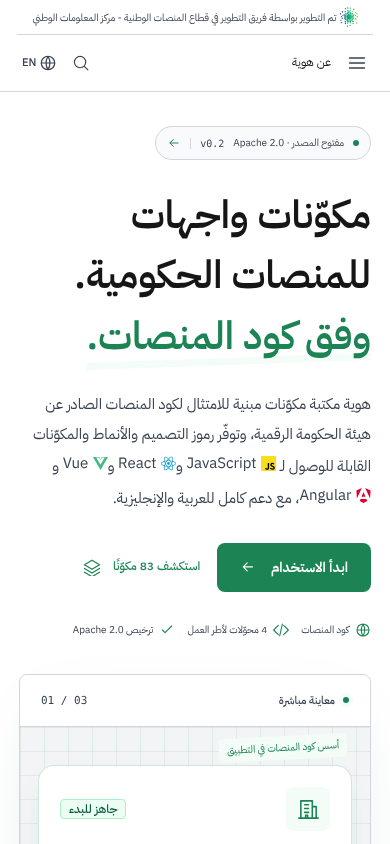
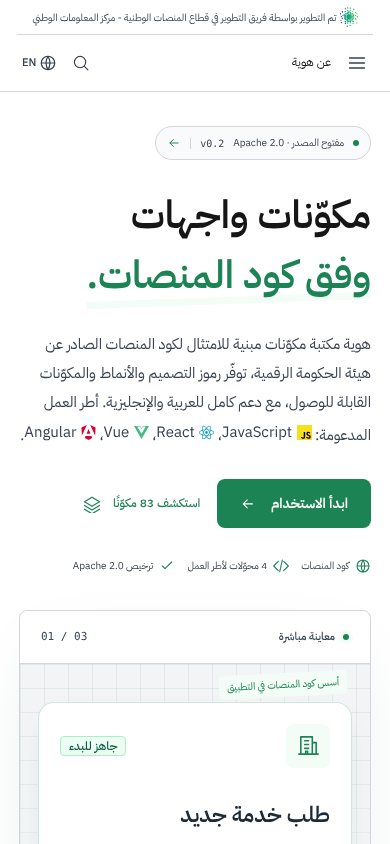
Lead installation with npm and remove government-platform overstatement
- The homepage installation section now opens on an npm tab with numbered
  install and import steps for the selected framework; cloning the source is
  the second tab. The chosen tab survives a framework switch, package names
  stay left-to-right in Arabic, and code wraps only at spaces.
- The Arabic hero drops "للمنصات الحكومية", the lead lists frameworks with
  commas instead of و, and the READMEs, brand pages and guide metadata no
  longer describe Hawiyah as limited to government platforms.
- Record the rename's verification results.

diff --git a/apps/playground/src/guide-home.ts b/apps/playground/src/guide-home.ts
@@ -6,12 +6,15 @@ import { hawiyahMinor, hawiyahVersion } from './release';
 type Framework = 'vanilla' | 'react' | 'vue' | 'angular';
 const frameworks: Framework[] = ['vanilla', 'react', 'vue', 'angular'];
 const labels = { vanilla: 'JavaScript', react: 'React', vue: 'Vue', angular: 'Angular' };
+/** Installation tab kept across re-renders when the framework changes. */
+let installMethod: 'npm' | 'source' = 'npm';
 export function renderHome(locale: Locale, selected: string, sample: (id: ComponentId, prefix: string) => string): string {
   const t = (en: string, ar: string) => locale === 'ar' ? ar : en;
   const framework = frameworks.includes(selected as Framework) ? selected as Framework : 'vanilla';
   const command = framework === 'vanilla' ? 'pnpm dev' : `pnpm --filter @hawiyah/example-${framework} dev`;
   const start = `git clone https://github.com/MohamedEmbarak/hawiyah.git\ncd hawiyah\ncorepack enable\npnpm install --frozen-lockfile\npnpm build:packages\n${command}`;
   const install = `npm install @hawiyah/styles @hawiyah/${framework}`;
+  const terminal = (code: string, label: string) => `<div class="home-terminal" dir="ltr"><pre><code>${e(code)}</code></pre><button type="button" data-copy="${e(code)}" aria-label="${label}">${icon('copy',17)}</button></div>`;
   const usage: Record<Framework, string> = {
     vanilla: "import '@hawiyah/styles/styles.css';\nimport { enhance } from '@hawiyah/vanilla';\n\n// Enhance only application-owned HTML with data-hw hooks.\nconst dispose = enhance(document);\n// Call dispose() before removing the enhanced tree.",
     react: "import '@hawiyah/styles/styles.css';\nimport { Button } from '@hawiyah/react';\n\nexport function Example() {\n  return <Button>Continue</Button>;\n}",
@@ -26,8 +29,8 @@ export function renderHome(locale: Locale, selected: string, sample: (id: Compon
   return `<div class="home-experience">
   <section class="home-hero" aria-labelledby="home-title">
     <div class="home-intro"><a class="home-release" href="#docs/getting-started"><span></span>${t('Open source · Apache 2.0', 'مفتوح المصدر · Apache 2.0')}<b dir="ltr">v${hawiyahMinor}</b>${icon('arrow',14)}</a>
-      <h1 id="home-title">${t('Built to the<br><em>DGA Platforms Code.</em>', 'مكوّنات واجهات للمنصات الحكومية.<br><em>وفق كود المنصات.</em>')}</h1>
-      <p class="home-lead">${t('Hawiyah is a component library built to comply with the Digital Government Authority Platforms Code. It provides design tokens, styles and accessible components for JavaScript, React, Vue and Angular, with full Arabic and English support.', 'هوية مكتبة مكوّنات مبنية للامتثال لكود المنصات الصادر عن هيئة الحكومة الرقمية، وتوفّر رموز التصميم والأنماط والمكوّنات القابلة للوصول لـ JavaScript وReact وVue وAngular، مع دعم كامل للعربية والإنجليزية.')}</p>
+      <h1 id="home-title">${t('Built to the<br><em>DGA Platforms Code.</em>', 'مكوّنات واجهات<br><em>وفق كود المنصات.</em>')}</h1>
+      <p class="home-lead">${t('Hawiyah is a component library built to comply with the Digital Government Authority Platforms Code. It provides design tokens, styles and accessible components for JavaScript, React, Vue and Angular, with full Arabic and English support.', 'هوية مكتبة مكوّنات مبنية للامتثال لكود المنصات الصادر عن هيئة الحكومة الرقمية، توفّر رموز التصميم والأنماط والمكوّنات القابلة للوصول، مع دعم كامل للعربية والإنجليزية. أطر العمل المدعومة: JavaScript، React، Vue، Angular.')}</p>
       <div class="home-actions"><a class="hw-button" href="#docs/getting-started">${t('Get started', 'ابدأ الاستخدام')}${icon('arrow',18)}</a><a class="home-secondary" href="#components">${t(`Explore ${catalog.length} components`, `استكشف ${catalog.length} مكوّنًا`)}${icon('layers',18)}</a></div>
       <div class="home-proof"><span>${icon('globe',16)}${t('DGA Platforms Code', 'كود المنصات')}</span><span>${icon('code',16)}${t('4 framework adapters', '4 محوّلات لأطر العمل')}</span><span>${icon('check',16)}${t('Apache 2.0', 'ترخيص Apache 2.0')}</span></div>
     </div>
@@ -44,7 +47,7 @@ export function renderHome(locale: Locale, selected: string, sample: (id: Compon
       <div class="home-studio-foot"><span>${icon('spark',14)}${t('Shared DGA colors, spacing and radii.', 'ألوان ومسافات وزوايا كود المنصات المشتركة.')}</span><a href="#foundations">${t('Explore foundations', 'استكشف الأسس')} ${icon('arrow',14)}</a></div>
     </div>
   </section>
-  <section class="home-quickstart" aria-labelledby="quickstart-title"><div><span class="home-section-label">${t('INSTALLATION', 'التثبيت')}</span><h2 id="quickstart-title">${t('Run Hawiyah from source', 'شغّل هوية من المصدر')}</h2><p>${t('Choose an adapter, then follow the complete checkout and setup commands.', 'اختر المحوّل، ثم اتبع أوامر تنزيل المصدر والإعداد كاملة.')}</p></div><div class="home-install"><div class="home-frameworks" role="group" aria-label="${t('Choose your framework', 'اختر إطار العمل')}">${frameworks.map(f=>`<button type="button" id="home-framework-${f}" data-framework="${f}" aria-pressed="${framework===f}" class="${framework===f?'selected':''}"><span class="framework-name">${frameworkIcon(f)}${labels[f]}</span></button>`).join('')}</div><p class="home-setup-note">${t('Run the source checkout with Node 24 and the pinned pnpm version. To add Hawiyah to an existing application, install the published npm packages instead.', 'شغّل نسخة المصدر باستخدام Node 24 وإصدار pnpm المثبّت في المشروع. لإضافة هوية إلى تطبيق قائم، ثبّت الحزم المنشورة على npm بدلًا من ذلك.')}</p><div class="home-terminal" dir="ltr"><pre><code>${e(start)}</code></pre><button type="button" data-copy="${e(start)}" aria-label="${t('Copy complete setup commands', 'انسخ أوامر الإعداد كاملة')}">${icon('copy',17)}</button></div><div class="home-install-foot"><span>${t(`From source · Node 24 · npm ${hawiyahVersion}`, `من المصدر · Node 24 · npm ${hawiyahVersion}`)}</span><a href="#docs/${framework}">${t('Setup guide', 'دليل الإعداد')} ${icon('arrow',14)}</a></div><details class="home-consumer-setup"><summary>${t('Use packages in an existing application', 'استخدم الحزم في تطبيق قائم')}</summary><p>${t('Install the published packages in your existing application. The adapter brings in @hawiyah/core, and @hawiyah/styles brings in @hawiyah/tokens. Version 0.x releases may change APIs between minor versions.', 'ثبّت الحزم المنشورة داخل تطبيقك القائم. يجلب المحوّل حزمة @hawiyah/core، وتجلب @hawiyah/styles حزمة @hawiyah/tokens. قد تتغير الواجهات البرمجية بين الإصدارات الفرعية ما دام الإصدار 0.x.')}</p><div class="home-terminal" dir="ltr"><pre><code>${e(install)}</code></pre><button type="button" data-copy="${e(install)}" aria-label="${t('Copy package installation command', 'انسخ أمر تثبيت الحزم')}">${icon('copy',17)}</button></div><p>${t('Load @hawiyah/styles/styles.css once in the application entry point or global styles. Use the selected adapter setup guide for component imports, framework prerequisites and lifecycle cleanup.', 'حمّل @hawiyah/styles/styles.css مرة واحدة في نقطة دخول التطبيق أو أنماطه العامة. اتبع دليل إعداد المحوّل المحدد لاستيراد المكوّنات ومتطلبات إطار العمل وتنظيف دورة الحياة.')}</p><div class="home-terminal" dir="ltr"><pre><code>${e(usage[framework])}</code></pre><button type="button" data-copy="${e(usage[framework])}" aria-label="${t('Copy package usage example', 'انسخ مثال استخدام الحزمة')}">${icon('copy',17)}</button></div><a href="#docs/${framework}">${t('Open', 'افتح دليل')} ${labels[framework]} ${t('setup and imports', 'الإعداد والاستيراد')}${icon('arrow',14)}</a></details></div></section>
+  <section class="home-quickstart" aria-labelledby="quickstart-title"><div class="home-quickstart-intro"><span class="home-section-label">${t('INSTALLATION', 'التثبيت')}</span><h2 id="quickstart-title">${t('Install Hawiyah', 'ثبّت هوية')}</h2><p>${t('Choose a framework, then install the published packages or clone the source repository.', 'اختر إطار العمل، ثم ثبّت الحزم المنشورة أو انسخ مستودع المصدر.')}</p><dl class="home-quickstart-facts"><div><dt>${t('Version', 'الإصدار')}</dt><dd dir="ltr">${hawiyahVersion}</dd></div><div><dt>${t('License', 'الترخيص')}</dt><dd dir="ltr">Apache 2.0</dd></div><div><dt>${t('Standard', 'المعيار')}</dt><dd>${t('DGA Platforms Code', 'كود المنصات')}</dd></div></dl></div><div class="home-install"><div class="home-frameworks" role="group" aria-label="${t('Choose your framework', 'اختر إطار العمل')}">${frameworks.map(f=>`<button type="button" id="home-framework-${f}" data-framework="${f}" aria-pressed="${framework===f}" class="${framework===f?'selected':''}"><span class="framework-name">${frameworkIcon(f)}${labels[f]}</span></button>`).join('')}</div><div class="hw-tabs home-install-tabs" data-hw="tabs"><div class="hw-tab-list" role="tablist" aria-label="${t('Installation method', 'طريقة التثبيت')}"><button class="hw-tab" role="tab" id="home-install-tab-npm" data-method="npm" aria-controls="home-install-npm" aria-selected="${installMethod==='npm'}">${t('Install from npm', 'التثبيت من npm')}<span class="home-install-recommended">${t('Recommended', 'موصى به')}</span></button><button class="hw-tab" role="tab" id="home-install-tab-source" data-method="source" aria-controls="home-install-source" aria-selected="${installMethod==='source'}">${t('Clone the source', 'نسخ المصدر')}</button></div><section class="hw-tab-panel home-install-panel" role="tabpanel" id="home-install-npm" aria-labelledby="home-install-tab-npm"${installMethod==='npm'?'':' hidden'}><ol class="home-install-steps"><li><span class="home-install-step">${t('Install the styles and the', 'ثبّت حزمة الأنماط ومحوّل')} ${labels[framework]} ${t('adapter', '')}</span>${terminal(install, t('Copy package installation command', 'انسخ أمر تثبيت الحزم'))}</li><li><span class="home-install-step">${t('Import the stylesheet once, then use the components', 'استورد ملف الأنماط مرة واحدة، ثم استخدم المكوّنات')}</span>${terminal(usage[framework], t('Copy package usage example', 'انسخ مثال استخدام الحزمة'))}</li></ol><p class="home-install-note">${t('The adapter installs <code dir="ltr">@hawiyah/core</code>, and <code dir="ltr">@hawiyah/styles</code> installs <code dir="ltr">@hawiyah/tokens</code>. Releases below 1.0 may change APIs between minor versions.', 'يثبّت المحوّل حزمة <code dir="ltr">@hawiyah/core</code>، وتثبّت <code dir="ltr">@hawiyah/styles</code> حزمة <code dir="ltr">@hawiyah/tokens</code>. قد تتغير الواجهات البرمجية بين الإصدارات الفرعية قبل الإصدار <bdi dir="ltr">1.0</bdi>.')}</p><a class="home-install-link" href="#docs/${framework}">${t(`Open the ${labels[framework]} setup guide`, `افتح دليل إعداد ${labels[framework]}`)}${icon('arrow',14)}</a></section><section class="hw-tab-panel home-install-panel" role="tabpanel" id="home-install-source" aria-labelledby="home-install-tab-source"${installMethod==='source'?'':' hidden'}><p class="home-install-note">${t('Use Node.js 24 and the pnpm version pinned in the repository. The last command starts the selected example.', 'استخدم Node.js 24 وإصدار pnpm المثبّت في المستودع. يشغّل الأمر الأخير المثال المحدد.')}</p>${terminal(start, t('Copy complete setup commands', 'انسخ أوامر الإعداد كاملة'))}<a class="home-install-link" href="https://github.com/MohamedEmbarak/hawiyah" target="_blank" rel="noopener">${t('View the repository on GitHub', 'اعرض المستودع على GitHub')}${icon('arrow',14)}</a></section></div></div></section>
   <section class="home-collection" aria-labelledby="collection-title"><div class="home-section-head"><div><span class="home-section-label">${t('COMPONENT CATALOG', 'فهرس المكوّنات')}</span><h2 id="collection-title">${t('Documented components.<br>Tested behavior.', 'مكوّنات موثقة.<br>وسلوك مختبَر.')}</h2></div><a class="home-secondary" href="#components">${t('Full catalog', 'الفهرس الكامل')}${icon('arrow',18)}</a></div>
     <div class="home-featured">${featured.map(([id,en,ar,n])=>`<article class="home-feature-card"><div class="home-feature-caption"><span dir="ltr">${n}</span><span>${t(en,ar)}</span>${icon('spark',16)}</div><div class="home-feature-demo">${sample(id,'home-feature-'+id)}</div><a href="#component/${id}">${t(id === 'date-picker' ? 'Explore Date picker' : id === 'combobox' ? 'Explore Combobox' : 'Explore Tabs',id === 'date-picker' ? 'اكتشف منتقي التاريخ' : id === 'combobox' ? 'اكتشف البحث والاختيار' : 'اكتشف التبويبات')}${icon('arrow',17)}</a></article>`).join('')}</div>
   </section>
@@ -64,11 +67,13 @@ export function bindHome(root: HTMLElement, locale: Locale): () => void {
     stage.querySelector('progress')!.value=progress;
     stage.querySelector('[data-home-progress]')!.textContent=new Intl.NumberFormat(locale==='ar'?'ar-SA':'en',{numberingSystem:'latn'}).format(progress)+(locale==='ar'?' من 3':' / 3');
   };
+  const rememberMethod=()=>{const tab=root.querySelector<HTMLElement>('.home-install-tabs [role="tab"][aria-selected="true"]');if(tab?.dataset.method==='npm'||tab?.dataset.method==='source')installMethod=tab.dataset.method;};
   const onClick=(event:Event)=>{
+    if((event.target as Element).closest('.home-install-tabs'))rememberMethod();
     if(!(event.target as Element).closest('[data-home-continue]'))return;
     progress=progress===3?1:progress+1;setProgress();
     stage.querySelector('[data-home-status]')!.textContent=progress===3?t('Preview complete. Start again.','اكتملت المعاينة. ابدأ من جديد.'):t(`Preview step ${progress} of 3.`,`خطوة المعاينة ${progress} من 3.`);
   };
-  root.addEventListener('click',onClick);setProgress();
-  return()=>{root.removeEventListener('click',onClick);};
+  root.addEventListener('click',onClick);root.addEventListener('keyup',rememberMethod);setProgress();
+  return()=>{root.removeEventListener('click',onClick);root.removeEventListener('keyup',rememberMethod);};
 }

diff --git a/apps/playground/src/guide-home.css b/apps/playground/src/guide-home.css
@@ -14,3 +14,34 @@
 
 /* Source setup stays readable and copyable at every viewport size. */
 .home-terminal{align-items:flex-start}.home-terminal pre{margin:0;min-inline-size:0;white-space:pre-wrap;overflow-wrap:anywhere}.home-consumer-setup{margin-block-start:18px;font-size:13px}.home-consumer-setup summary{cursor:pointer;font-weight:500;color:var(--hw-color-text)}.home-consumer-setup>a{display:inline-flex;align-items:center;gap:6px;color:var(--hw-color-primary-text)}
+/* Installation: npm first, source checkout second. */
+.home-quickstart{grid-template-columns:minmax(0,.8fr) minmax(0,1.4fr);align-items:start;gap:clamp(24px,4vw,56px);padding:clamp(22px,3vw,40px);background:var(--hw-color-surface)}
+.home-quickstart-intro h2{font-size:clamp(24px,2.4vw,32px);margin-block:10px 8px}
+.home-quickstart-intro p{font-size:14px;max-inline-size:34ch}
+.home-quickstart-facts{display:grid;gap:0;margin:22px 0 0;border-block-start:1px solid var(--hw-color-border)}
+.home-quickstart-facts div{display:flex;justify-content:space-between;gap:16px;padding-block:10px;border-block-end:1px solid var(--hw-color-border);font-size:13px}
+.home-quickstart-facts dt{color:var(--hw-color-text-muted)}
+.home-quickstart-facts dd{margin:0;font-weight:500;color:var(--hw-color-text)}
+.home-install{display:grid;gap:16px}
+.home-install .home-frameworks{margin:0}
+.home-install-tabs{border:1px solid var(--hw-color-border);border-radius:var(--hw-radius-lg);background:var(--hw-color-canvas);overflow:hidden}
+.home-install-tabs .hw-tab-list{padding-inline:12px;background:var(--hw-color-surface)}
+.home-install-tabs .hw-tab{gap:8px;font-size:14px}
+.home-install-recommended{display:inline-flex;align-items:center;padding:1px 8px;border-radius:999px;background:var(--hw-color-primary-subtle);color:var(--hw-color-primary-text);font-size:11px;font-weight:500;line-height:1.7}
+.home-install-panel{display:grid;gap:14px;padding:20px}
+.home-install-steps{display:grid;gap:16px;margin:0;padding:0;list-style:none;counter-reset:install}
+.home-install-steps li{display:grid;gap:8px;counter-increment:install}
+.home-install-step{display:flex;align-items:center;gap:10px;font-size:14px;font-weight:500;color:var(--hw-color-text)}
+.home-install-step:before{content:counter(install);display:grid;place-items:center;flex:none;inline-size:24px;block-size:24px;border-radius:50%;background:var(--hw-color-primary);color:var(--hw-color-on-primary);font-size:12px;font-weight:600}
+.home-install-panel .home-terminal{align-items:flex-start;padding:14px 16px}
+.home-install-panel .home-terminal pre{margin:0;min-inline-size:0;white-space:pre-wrap;overflow-wrap:anywhere}
+.home-install-panel .home-terminal code{font-size:12.5px;line-height:1.8}
+.home-install-note{margin:0;font-size:13px;line-height:1.8;color:var(--hw-color-text-muted)}
+.home-install-link{display:inline-flex;align-items:center;gap:6px;justify-self:start;font-size:14px;font-weight:500;text-decoration:none;color:var(--hw-color-primary-text)}
+.home-install-link:hover{text-decoration:underline;text-underline-offset:.2em}
+@media(max-width:1024px){.home-quickstart{grid-template-columns:minmax(0,1fr)}.home-quickstart-intro p{max-inline-size:none}}
+@media(max-width:420px){.home-install-panel{padding:14px}.home-install-tabs .hw-tab{font-size:13px;padding-inline:8px}.home-install-recommended{display:none}}
+.home-install-note code{font-size:12px;padding:1px 5px;border-radius:4px;background:var(--hw-color-surface-muted);color:var(--hw-color-text);unicode-bidi:isolate}
+.home-install-panel .home-terminal pre{flex:1;white-space:pre;overflow-wrap:normal;overflow-x:auto;scrollbar-width:thin}
+@media(max-width:420px){.home-install-panel .home-terminal code{font-size:12px}}
+.home-install-panel .home-terminal pre{white-space:pre-wrap;overflow-wrap:normal;word-break:normal}

diff --git a/tests/browser/home-onboarding.spec.ts b/tests/browser/home-onboarding.spec.ts
@@ -12,21 +12,32 @@ for (const locale of ['ar', 'en']) test(`homepage source onboarding and JavaScri
   expect(await page.locator('[data-home-stage]').evaluate(node => (node as HTMLElement).style.getPropertyValue('--hw-radius-md'))).toBe('');
   await page.locator('[data-home-continue]').click();
   await expect(page.locator('[data-home-progress]')).toContainText('2');
-  const sourceCommands = page.locator('.home-install > .home-terminal code');
-  await expect(sourceCommands).toContainText('git clone https://github.com/MohamedEmbarak/hawiyah.git');
-  await expect(sourceCommands).toContainText('corepack enable');
-  await expect(sourceCommands).toContainText('pnpm install --frozen-lockfile');
-  await expect(sourceCommands).toContainText('pnpm build:packages');
-  expect(await page.locator('.home-install > .home-terminal button').getAttribute('data-copy')).toBe(await sourceCommands.textContent());
+  const npmPanel = page.locator('#home-install-npm');
+  const sourcePanel = page.locator('#home-install-source');
+  await expect(npmPanel).toBeVisible();
+  await expect(sourcePanel).toBeHidden();
+  await expect(page.locator('#home-install-tab-npm')).toHaveAttribute('aria-selected', 'true');
   await expect(page.locator('#home-framework-vanilla')).toHaveText('JavaScript');
   await expect(page.locator('#home-framework-vanilla [data-framework-icon="javascript"]')).toHaveCount(1);
   for (const framework of ['react', 'vue', 'angular', 'vanilla']) {
     await page.locator(`#home-framework-${framework}`).click();
-    await expect(sourceCommands).toContainText(framework === 'vanilla' ? 'pnpm dev' : `pnpm --filter @hawiyah/example-${framework} dev`);
-    await page.locator('.home-consumer-setup summary').click();
-    const install = page.locator('.home-consumer-setup code').first();
+    const install = npmPanel.locator('.home-terminal code').first();
     await expect(install).toHaveText(`npm install @hawiyah/styles @hawiyah/${framework}`);
+    expect(await npmPanel.locator('.home-terminal button').first().getAttribute('data-copy')).toBe(await install.textContent());
   }
+  await page.locator('#home-install-tab-source').click();
+  await expect(sourcePanel).toBeVisible();
+  await expect(npmPanel).toBeHidden();
+  const sourceCommands = sourcePanel.locator('.home-terminal code');
+  await expect(sourceCommands).toContainText('git clone https://github.com/MohamedEmbarak/hawiyah.git');
+  await expect(sourceCommands).toContainText('corepack enable');
+  await expect(sourceCommands).toContainText('pnpm install --frozen-lockfile');
+  await expect(sourceCommands).toContainText('pnpm build:packages');
+  await expect(sourceCommands).toContainText('pnpm dev');
+  await page.locator('#home-framework-react').click();
+  await expect(page.locator('#home-install-tab-source')).toHaveAttribute('aria-selected', 'true');
+  await expect(sourcePanel.locator('.home-terminal code')).toContainText('pnpm --filter @hawiyah/example-react dev');
+  await page.locator('#home-framework-vanilla').click();
   await page.screenshot({path: testInfo.outputPath(`homepage-${locale}.png`), fullPage: true});
   await page.setViewportSize({width: 390, height: 844});
   const quickstart = page.locator('.home-quickstart');

diff --git a/brand/index.html b/brand/index.html
@@ -21,7 +21,7 @@
         <p class="eyebrow">هوية · إرشادات العلامة</p>
         <h1 id="hero-title" lang="ar" dir="rtl">مكتبة واجهات وفق كود المنصات</h1>
         <p class="hero-en">مبنية للامتثال لكود المنصات الصادر عن هيئة الحكومة الرقمية.</p>
-        <p class="intro">توفّر هوية رموز التصميم والأنماط والمكوّنات القابلة للوصول للمنصات الرقمية الحكومية. تحدد هذه الإرشادات الشعار والألوان والخطوط وقواعد الاستخدام، وجميعها مبنية على أسس كود المنصات.</p>
+        <p class="intro">توفّر هوية رموز التصميم والأنماط والمكوّنات القابلة للوصول للمنصات الرقمية. تحدد هذه الإرشادات الشعار والألوان والخطوط وقواعد الاستخدام، وجميعها مبنية على أسس كود المنصات.</p>
         <p class="muted">تُطوَّر هوية بشكل مستقل، وليست منتجًا رسميًا لهيئة الحكومة الرقمية.</p>
         <div class="link-row"><a href="#identity">قواعد الشعار</a><a href="#compliance">أساس الامتثال</a><a href="assets/hawiyah-wordmark.svg" download>نزّل الشعار ↗</a></div>
       </div>

diff --git a/apps/playground/index.html b/apps/playground/index.html
@@ -1,5 +1,5 @@
 <!doctype html>
 <html lang="ar" dir="rtl" data-hw-theme="dga" data-hw-mode="light" data-hw-density="comfortable">
-<head><meta charset="UTF-8"><meta name="viewport" content="width=device-width,initial-scale=1"><meta name="description" content="Hawiyah — هوية. A UI component library built to comply with the DGA Platforms Code, for JavaScript, React, Vue and Angular. Live components, APIs, lifecycle guidance, themes and government service templates."><title>هوية — دليل المكوّنات والتجارب الحية</title><link rel="icon" type="image/svg+xml" href="%BASE_URL%favicon.svg"></head>
+<head><meta charset="UTF-8"><meta name="viewport" content="width=device-width,initial-scale=1"><meta name="description" content="Hawiyah — هوية. A UI component library built to comply with the DGA Platforms Code, for JavaScript, React, Vue and Angular. Live components, APIs, lifecycle guidance, themes and service templates."><title>هوية — دليل المكوّنات والتجارب الحية</title><link rel="icon" type="image/svg+xml" href="%BASE_URL%favicon.svg"></head>
 <body><div id="app"></div><script type="module" src="/src/main.ts"></script></body>
 </html>

diff --git a/brand/index-en.html b/brand/index-en.html
@@ -21,7 +21,7 @@
         <p class="eyebrow">هوية · Brand guidelines</p>
         <h1 id="hero-title" lang="ar" dir="rtl">مكتبة واجهات وفق كود المنصات</h1>
         <p class="hero-en">A UI library built to comply with the DGA Platforms Code.</p>
-        <p class="intro">Hawiyah provides design tokens, styles and accessible components for government digital platforms. These guidelines define the wordmark, colors, typography and usage rules, all based on the Platforms Code foundations.</p>
+        <p class="intro">Hawiyah provides design tokens, styles and accessible components for digital platforms. These guidelines define the wordmark, colors, typography and usage rules, all based on the Platforms Code foundations.</p>
         <p class="muted">Hawiyah is maintained independently and is not an official product of the Digital Government Authority.</p>
         <div class="link-row"><a href="#identity">Wordmark rules</a><a href="#compliance">Compliance basis</a><a href="assets/hawiyah-wordmark.svg" download>Download the wordmark ↗</a></div>
       </div>

diff --git a/README.ar.md b/README.ar.md
@@ -1,6 +1,6 @@
 # هوية — Hawiyah
 
-**مكتبة مكوّنات واجهات مستخدم مبنية للامتثال لكود المنصات الصادر عن هيئة الحكومة الرقمية.** توفّر هوية رموز التصميم والأنماط والمكوّنات القابلة للوصول لـ JavaScript وReact وVue وAngular، مع دعم كامل للعربية والإنجليزية وقوالب صفحات لرحلات الخدمات الحكومية المتكاملة.
+**مكتبة مكوّنات واجهات مستخدم مبنية للامتثال لكود المنصات الصادر عن هيئة الحكومة الرقمية.** توفّر هوية رموز التصميم والأنماط والمكوّنات القابلة للوصول لأطر العمل JavaScript، React، Vue، Angular، مع دعم كامل للعربية والإنجليزية وقوالب صفحات لرحلات خدمات متكاملة.
 
 تم التطوير بواسطة فريق التطوير في قطاع المنصات الوطنية - مركز المعلومات الوطني
 
@@ -12,7 +12,7 @@ Developed by the Development Team in the National Platforms Sector — National 
 
 معاينات: [المحرّر المباشر بالعربية](docs/previews/component-editor-ar-dark.png)، و[المعرض بالعربية على الهاتف](docs/previews/playground-ar-mobile.png)، و[استوديو التخطيط](docs/previews/layouts.png)، و[منتقي التاريخ الميلادي وأم القرى](docs/previews/date-picker.png).
 
-تطبّق هوية **كود المنصات — Platforms Code** الصادر عن **هيئة الحكومة الرقمية — DGA**، وهو **نظام التصميم الموحد — Unified Design System** في **المملكة العربية السعودية — Kingdom of Saudi Arabia (KSA)**، في الأسس والمكوّنات وأنماط الخدمات الحكومية. **يُوثَّق الامتثال متطلبًا متطلبًا، مع أدلة الاختبار والبنود المفتوحة.** تُطوَّر هوية بشكل مستقل، وليست منتجًا رسميًا للهيئة. راجع [توثيق المواءمة](docs/alignment.md) قبل وصف أي منتج بأنه متوافق. يسجل [مرجع DGA ودليل الانتقال](docs/dga-reference.md) لقطات المصدر المزوّدة بتاريخ 2026-10-29، والقيم الدلالية للوضعين الفاتح والداكن، ومعرّفات العناصر والفجوات. تاريخ التصدير ليس رقم إصدار رسميًا. فُكّ ترميز الملفات المحلية الـ23 جميعها، بما فيها الملفات الستة التي تعذّر نقلها سابقًا، ولم تُزوَّد مكتبة مستقلة لمكونات الويب. يوضح [جرد المصادر](docs/dga-source-inventory.md) و[متابعة التدقيق](docs/dga-audit-followup.md) الأدلة والفجوات المتبقية. قالب الحج خاص بتطبيق الحج وخارج نطاق هوية.
+تطبّق هوية **كود المنصات — Platforms Code** الصادر عن **هيئة الحكومة الرقمية — DGA**، وهو **نظام التصميم الموحد — Unified Design System** في **المملكة العربية السعودية — Kingdom of Saudi Arabia (KSA)**، في الأسس والمكوّنات وأنماط الخدمات. **يُوثَّق الامتثال متطلبًا متطلبًا، مع أدلة الاختبار والبنود المفتوحة.** تُطوَّر هوية بشكل مستقل، وليست منتجًا رسميًا للهيئة. راجع [توثيق المواءمة](docs/alignment.md) قبل وصف أي منتج بأنه متوافق. يسجل [مرجع DGA ودليل الانتقال](docs/dga-reference.md) لقطات المصدر المزوّدة بتاريخ 2026-10-29، والقيم الدلالية للوضعين الفاتح والداكن، ومعرّفات العناصر والفجوات. تاريخ التصدير ليس رقم إصدار رسميًا. فُكّ ترميز الملفات المحلية الـ23 جميعها، بما فيها الملفات الستة التي تعذّر نقلها سابقًا، ولم تُزوَّد مكتبة مستقلة لمكونات الويب. يوضح [جرد المصادر](docs/dga-source-inventory.md) و[متابعة التدقيق](docs/dga-audit-followup.md) الأدلة والفجوات المتبقية. قالب الحج خاص بتطبيق الحج وخارج نطاق هوية.
 
 استكشف [معرض القوالب](https://mohamedembarak.github.io/hawiyah/#templates) و[صفحة الخدمة بعرض كامل](https://mohamedembarak.github.io/hawiyah/?preview=template#templates/service) و[نموذج الطلب](https://mohamedembarak.github.io/hawiyah/?preview=template#templates/form). الأمثلة ثنائية اللغة وتعمل ببيانات تجريبية محلية؛ اربطها بخدمات تطبيقك عند استخدامها فعليًا.
 

diff --git a/README.md b/README.md
@@ -1,6 +1,6 @@
 # Hawiyah — هوية
 
-**A UI component library built to comply with the Digital Government Authority (DGA) Platforms Code.** Hawiyah provides design tokens, styles, and accessible components for JavaScript, React, Vue, and Angular, with full Arabic and English support and page templates for complete government service journeys.
+**A UI component library built to comply with the Digital Government Authority (DGA) Platforms Code.** Hawiyah provides design tokens, styles, and accessible components for JavaScript, React, Vue, and Angular, with full Arabic and English support and page templates for complete service journeys.
 
 Developed by the Development Team in the National Platforms Sector — National Information Center. Formerly developed as Nasaq; see the [changelog](CHANGELOG.md) for the rename.
 
@@ -14,7 +14,7 @@ The default interface uses the DGA foundation mapped from supplied Platforms Cod
 
 Preview the [live editor in Arabic](docs/previews/component-editor-ar-dark.png), [layout studio](docs/previews/layouts.png) and [Gregorian/Umm al-Qura date picker](docs/previews/date-picker.png).
 
-Hawiyah implements the **DGA Platforms Code**, the **Unified Design System** for the **Kingdom of Saudi Arabia (KSA)** — **كود المنصات، نظام التصميم الموحد، هيئة الحكومة الرقمية** — across foundations, components, and government service patterns. **Compliance is documented requirement by requirement, with test evidence and open items.** Hawiyah is maintained independently and is not an official DGA product. Read [DGA alignment](docs/alignment.md) before describing a product as compliant. The [DGA reference and migration guide](docs/dga-reference.md) records the supplied 2026-10-29 snapshots, semantic light/dark values, reference nodes, and remaining gaps. The export date is not an official release number. All 23 local files are now decoded; the earlier six-file transfer limit is resolved. No standalone web Components Library was supplied. See the [source inventory](docs/dga-source-inventory.md) and [audit follow-up](docs/dga-audit-followup.md) for evidence and remaining gaps. The application-specific Hajj template is outside Hawiyah scope.
+Hawiyah implements the **DGA Platforms Code**, the **Unified Design System** for the **Kingdom of Saudi Arabia (KSA)** — **كود المنصات، نظام التصميم الموحد، هيئة الحكومة الرقمية** — across foundations, components, and service patterns. **Compliance is documented requirement by requirement, with test evidence and open items.** Hawiyah is maintained independently and is not an official DGA product. Read [DGA alignment](docs/alignment.md) before describing a product as compliant. The [DGA reference and migration guide](docs/dga-reference.md) records the supplied 2026-10-29 snapshots, semantic light/dark values, reference nodes, and remaining gaps. The export date is not an official release number. All 23 local files are now decoded; the earlier six-file transfer limit is resolved. No standalone web Components Library was supplied. See the [source inventory](docs/dga-source-inventory.md) and [audit follow-up](docs/dga-audit-followup.md) for evidence and remaining gaps. The application-specific Hajj template is outside Hawiyah scope.
 
 Explore the [template gallery](https://mohamedembarak.github.io/hawiyah/#templates), [full-width service page](https://mohamedembarak.github.io/hawiyah/?preview=template#templates/service), and [application form](https://mohamedembarak.github.io/hawiyah/?preview=template#templates/form). These bilingual examples use local demonstration state; connect your own services for production.
 

diff --git a/docs/validation.md b/docs/validation.md
@@ -1,5 +1,29 @@
 # Validation record
 
+## 2026-11-09 Hawiyah rename and identity
+
+After renaming Nasaq to Hawiyah (packages, `hw-` classes and variables, data
+hooks, events, Angular symbols, theme and assets), with Node.js 24.22.1 and
+pnpm 11.25.0: `pnpm build:packages`, `pnpm typecheck:playground`, `pnpm test`
+(637 Vitest and 8 token-contrast cases), `pnpm check:packages` (clean consumer
+for all seven `@hawiyah/*` tarballs: ESM, React/Vue SSR, Angular APF, CSS and
+asset exports, strict declarations; React Button 382 and Vanilla Tabs 4,097
+bytes gzip within budget) and `HAWIYAH_BASE_PATH=/hawiyah/ pnpm build:docs`
+passed. The handwriting loader build verified that the finished هوية traces
+every one of its 36,181 solid interior pixels in both colors.
+
+The full Chromium suite ran 528 tests: 509 passed and 19 failed. Fifteen
+failures also fail on the pre-rename Nasaq commit and are stale tests: the
+editor card footer text (five formats), homepage hero switches that no longer
+exist (two), the Arabic layouts and inputs audit waiting for a removed toggle
+label (two), Arabic content navigation at 320px, and the components route
+overflow and audit checks (five). Four failures passed when rerun alone and
+depend on load during the parallel run: the input-lab calendar height, live
+reduced-motion timing, the vanilla notification project width, and a
+pagination contrast reading taken mid-transition. After the installation
+section moved to npm-first tabs, the homepage onboarding and guide specs
+passed (10 tests).
+
 ## 2026-11-09 npm release 0.2.0
 
 All seven packages moved to 0.2.0 together. With Node.js 24.22.1 and pnpm
